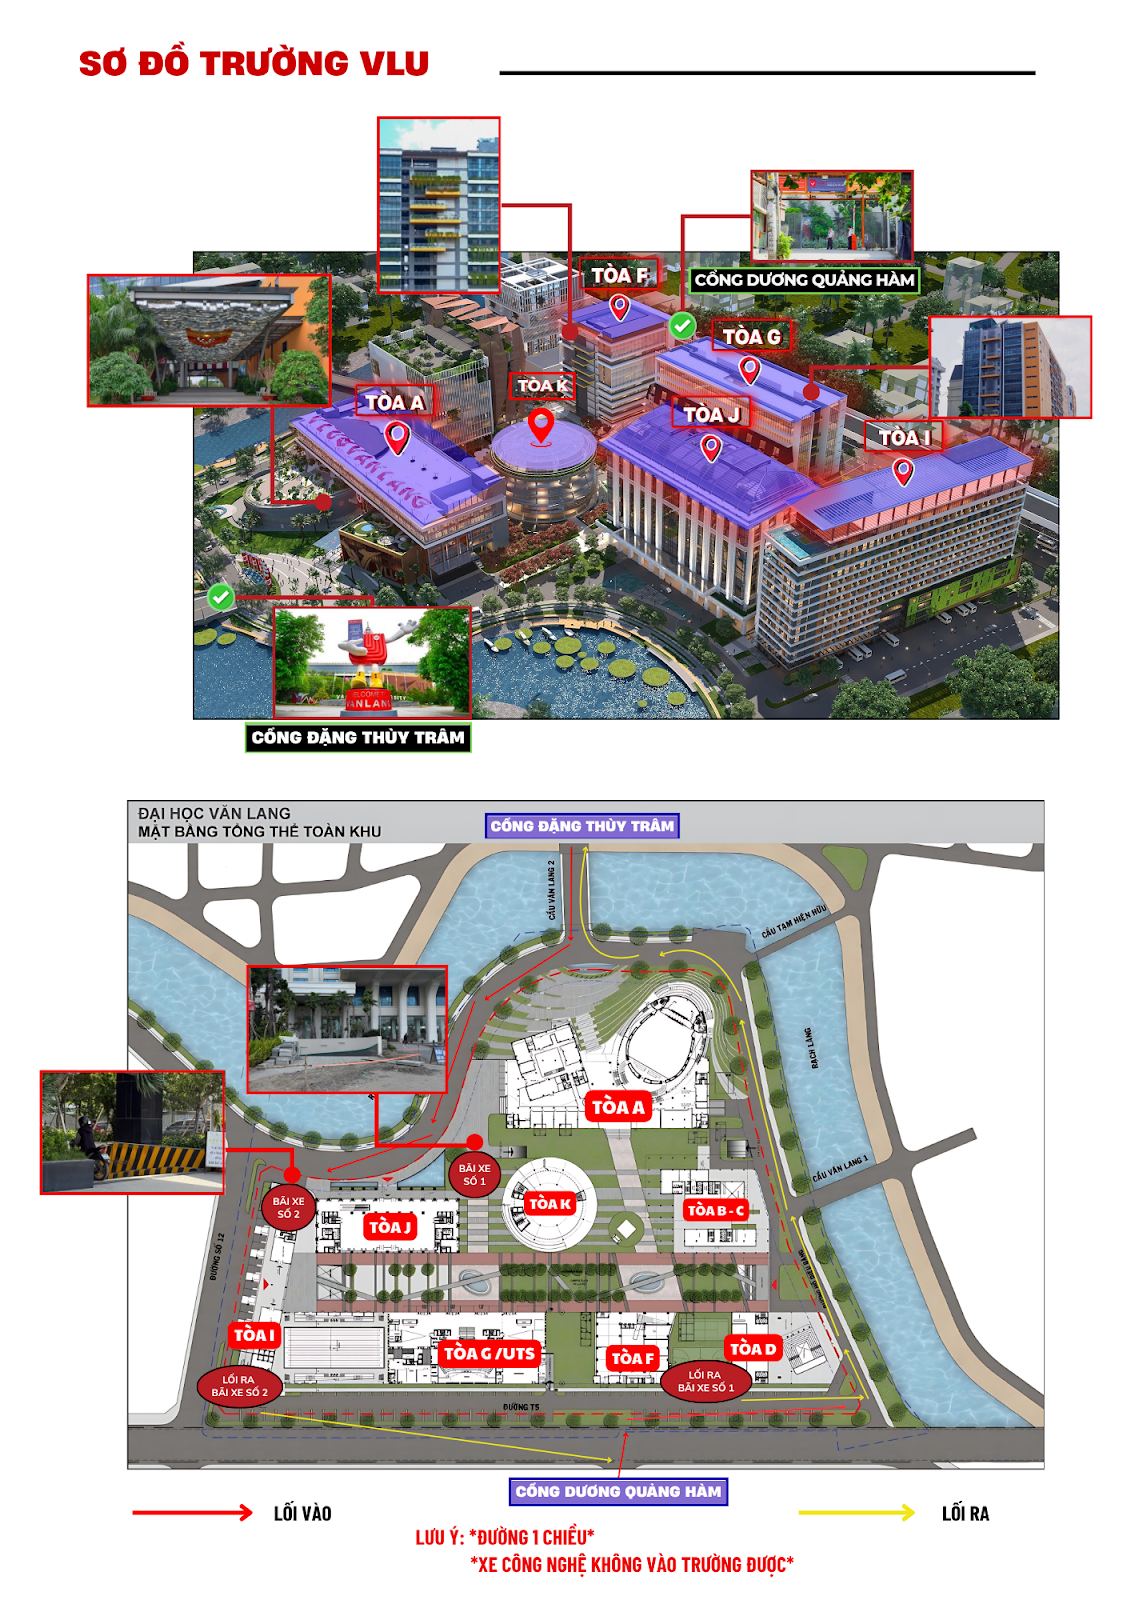
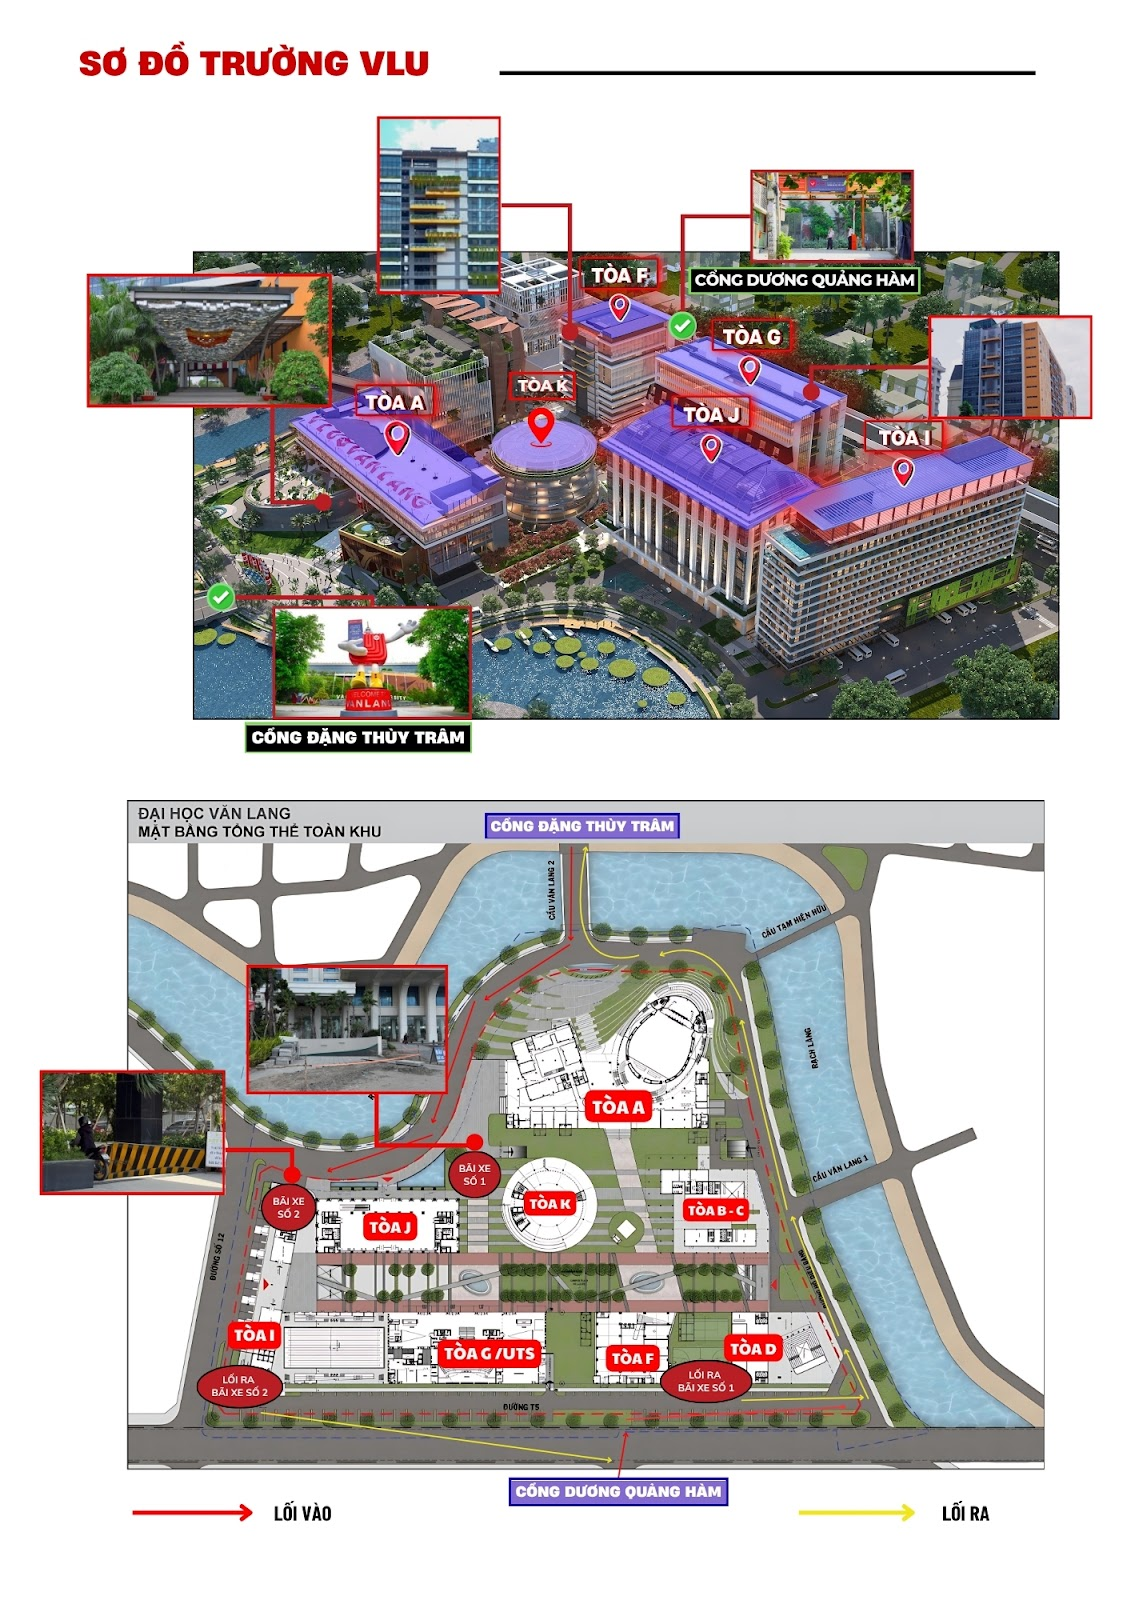
ver52

diff --git a/index.html b/index.html
@@ -269,7 +269,7 @@
                     <h4 class="campus-map-tag"><i class="fa-solid fa-map-location-dot"></i> SƠ ĐỒ MẶT BẰNG TỔNG THỂ CAMPUS 3</h4>
                 </div>
                 <div class="campus-map-img-wrapper">
-                    <img src="assets/vlu_campus_overview_map_hd.jpg" alt="Mặt bằng tổng thể Trường Đại học Văn Lang Cơ sở 3 HD" class="campus-overview-img">
+                    <img src="assets/vlu_campus_overview_map_hd.jpg" onerror="this.onerror=null; this.src='https://lh3.googleusercontent.com/d/11U6M2hWCCGwU6ujwCSS3USkC7JEHwdy2';" alt="Mặt bằng tổng thể Trường Đại học Văn Lang Cơ sở 3 HD" class="campus-overview-img">
                 </div>
                 <p class="campus-map-caption-below">
                     <i class="fa-solid fa-compass"></i> Sơ Đồ Tổng Quan &amp; Mặt Bằng Toàn Khu Trường Đại học Văn Lang (Campus 3)
@@ -329,6 +329,27 @@
                     </p>
                 </div>
             </div>
+
+            <!-- SƠ ĐỒ TOÀ A & TOÀ J (BÊN TRÁI & BÊN PHẢI CÙNG HÀNG) -->
+            <div class="building-guide-grid">
+                <div class="building-guide-item">
+                    <a href="https://drive.google.com/file/d/1AhsdMeV9O92DZ4rUODQJIuPUIeLI8g04/view" target="_blank" rel="noopener noreferrer" class="building-guide-link" title="Bấm để xem ảnh Toà A kích thước lớn">
+                        <div class="campus-map-img-wrapper building-guide-img-wrapper">
+                            <img src="assets/vlu_grad_guide_1.jpg" onerror="this.onerror=null; this.src='https://drive.usercontent.google.com/download?id=1AhsdMeV9O92DZ4rUODQJIuPUIeLI8g04&amp;export=download';" alt="Sơ đồ Toà A Trường Đại học Văn Lang" class="campus-overview-img building-guide-img">
+                        </div>
+                    </a>
+                </div>
+                <div class="building-guide-item">
+                    <a href="https://drive.google.com/file/d/1yfYeBnTc3-OcmBokGPJL5GQvN85IKR6W/view?usp=drive_link" target="_blank" rel="noopener noreferrer" class="building-guide-link" title="Bấm để xem ảnh Toà J kích thước lớn">
+                        <div class="campus-map-img-wrapper building-guide-img-wrapper">
+                            <img src="assets/vlu_grad_guide_2.jpg" onerror="this.onerror=null; this.src='https://drive.usercontent.google.com/download?id=1yfYeBnTc3-OcmBokGPJL5GQvN85IKR6W&amp;export=download';" alt="Sơ đồ Toà J Trường Đại học Văn Lang" class="campus-overview-img building-guide-img">
+                        </div>
+                    </a>
+                </div>
+            </div>
+            <p class="video-caption-text full-width-caption building-guide-caption">
+                <i class="fa-solid fa-circle-info"></i> Hình ảnh chi tiết về tòa A (khu vực chỉ dành cho 1 người đại diện vào hội trường Trịnh Công Sơn cùng với Tân Khoa) và tòa J (khu vực dành cho khách mời đến dự lễ được nhà trường đón tiếp ngồi xem qua truyền hình trực tiếp).
+            </p>
         </section>
 
         <!-- SECTION 2: VIDEO HƯỚNG DẪN GỬI XE TẠI TRƯỜNG ĐẠI HỌC VĂN LANG -->
@@ -381,7 +402,7 @@
                     <h4 class="campus-map-tag"><i class="fa-solid fa-square-parking"></i> SƠ ĐỒ CÁC ĐIỂM GIỮ XE TẠI CƠ SỞ CHÍNH</h4>
                 </div>
                 <div class="campus-map-img-wrapper parking-map-wrapper">
-                    <img src="assets/vlu_parking_guide_map.jpg" alt="Sơ đồ các điểm giữ xe tại Cơ sở chính Trường Đại học Văn Lang" class="campus-overview-img parking-overview-img">
+                    <img src="assets/vlu_parking_guide_map.jpg" onerror="this.onerror=null; this.src='https://drive.usercontent.google.com/download?id=1aQcQ6GEUpXhiKmG3DhWt3mYCnzkOMJhS&amp;export=download';" alt="Sơ đồ các điểm giữ xe tại Cơ sở chính Trường Đại học Văn Lang" class="campus-overview-img parking-overview-img">
                 </div>
                 <p class="video-caption-text full-width-caption parking-map-caption">
                     <i class="fa-solid fa-compass"></i> Sơ đồ chi tiết các điểm gửi xe (Hầm I, Hầm II &amp; Bãi xe tư nhân) tại Cổng Đặng Thùy Trâm và Cổng Dương Quảng Hàm.

diff --git a/styles.css b/styles.css
@@ -2106,6 +2106,76 @@ body.is-ipad .mobile-video-overlay-link {
     filter: brightness(0.9);
 }
 
+/* BUILDING GUIDE GRID (TOA A & TOA J SIDE BY SIDE) */
+.building-guide-grid {
+    display: grid;
+    grid-template-columns: repeat(2, 1fr);
+    gap: 16px;
+    margin-top: 18px;
+    width: 100%;
+}
+
+@media (max-width: 580px) {
+    .building-guide-grid {
+        grid-template-columns: repeat(2, 1fr);
+        gap: 10px;
+    }
+}
+
+.building-guide-item {
+    width: 100%;
+}
+
+.building-guide-link {
+    display: block;
+    text-decoration: none;
+    width: 100%;
+}
+
+.building-guide-img-wrapper {
+    width: 100%;
+    border-radius: 14px;
+    overflow: hidden;
+    border: 1.5px solid #DFD5C5;
+    box-shadow: 0 6px 18px rgba(0, 0, 0, 0.1);
+    background: #FFFFFF;
+    transition: transform 0.3s ease, box-shadow 0.3s ease;
+}
+
+.building-guide-link:hover .building-guide-img-wrapper {
+    transform: translateY(-3px);
+    box-shadow: 0 10px 24px rgba(139, 30, 30, 0.18);
+    border-color: #C59B27;
+}
+
+.building-guide-img {
+    width: 100%;
+    height: auto;
+    display: block;
+    object-fit: cover;
+}
+
+.building-guide-caption {
+    color: #5C4343 !important;
+    font-size: 0.88rem !important;
+    font-weight: 400 !important;
+    line-height: 1.65 !important;
+    text-align: justify !important;
+    text-justify: inter-word !important;
+    max-width: 100% !important;
+    width: 100% !important;
+    margin-top: 14px !important;
+    font-family: 'Montserrat', sans-serif !important;
+}
+
+.building-guide-caption i {
+    color: #C59B27 !important;
+    font-size: 1rem !important;
+    margin-right: 6px !important;
+    display: inline !important;
+    vertical-align: -1px !important;
+}
+
 .img-overlay-hover {
     position: absolute;
     top: 0;
